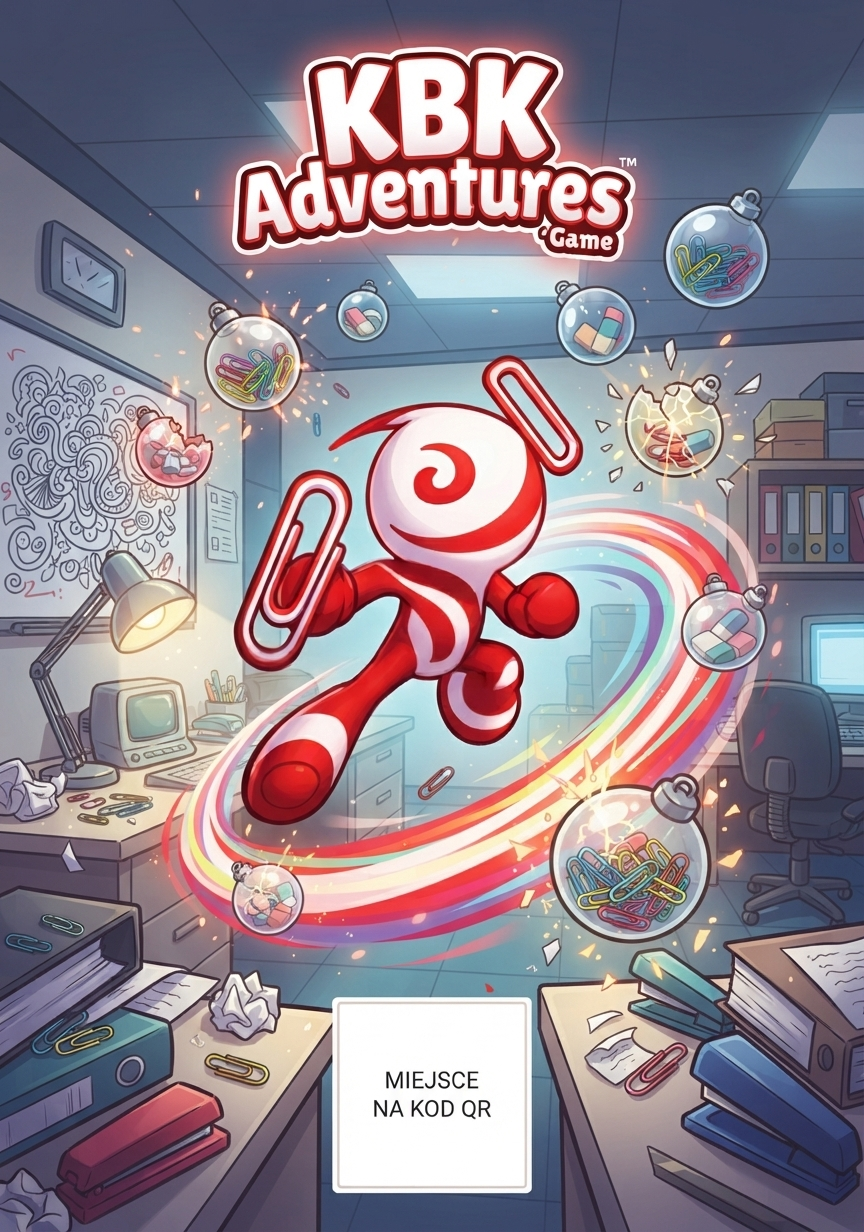
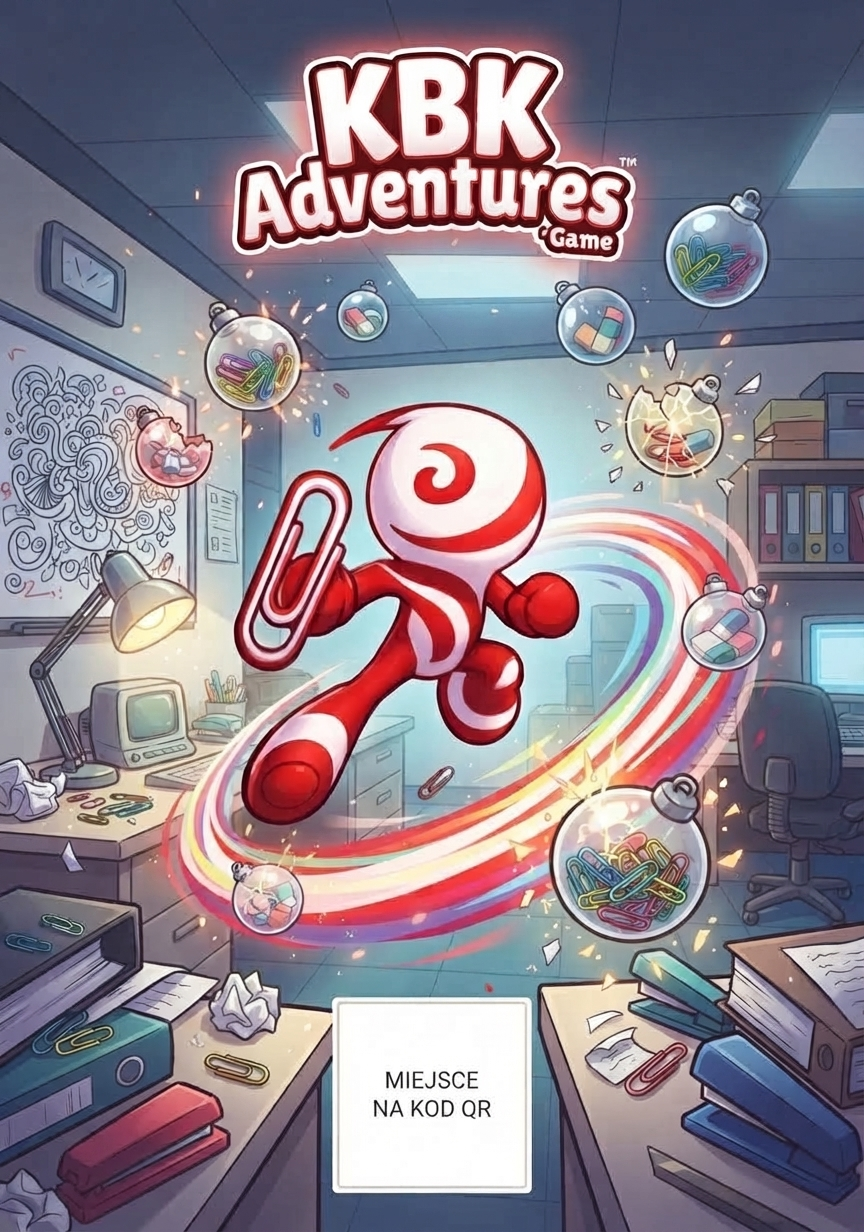
Swap in updated cover art and character cutout (OKŁADKA GRY NEW / KBK NEW)
- Replaced assets/cover.jpg and assets/player.png with tight crops of the new source files
- Bumped cache-busting query params on both so browsers pick up the change

diff --git a/game.js b/game.js
@@ -47,8 +47,8 @@
   ];
 
   const playerSprite = new Image();
-  playerSprite.src = 'assets/player.png?v=2';
-  const PLAYER_SPRITE_ASPECT = 296 / 380; // width / height of assets/player.png
+  playerSprite.src = 'assets/player.png?v=3';
+  const PLAYER_SPRITE_ASPECT = 328 / 380; // width / height of assets/player.png
 
   // ---------------------------------------------------------------------
   // DOM

diff --git a/index.html b/index.html
@@ -79,7 +79,7 @@
     background-color:#0d0b09;
     background-image:
       linear-gradient(180deg, rgba(10,8,6,.06) 0%, rgba(10,8,6,.12) 55%, rgba(10,8,6,.82) 92%),
-      url('assets/cover.jpg');
+      url('assets/cover.jpg?v=2');
     background-repeat:no-repeat;
     background-position:center top, center top;
     background-size:100% 100%, auto 100%;
